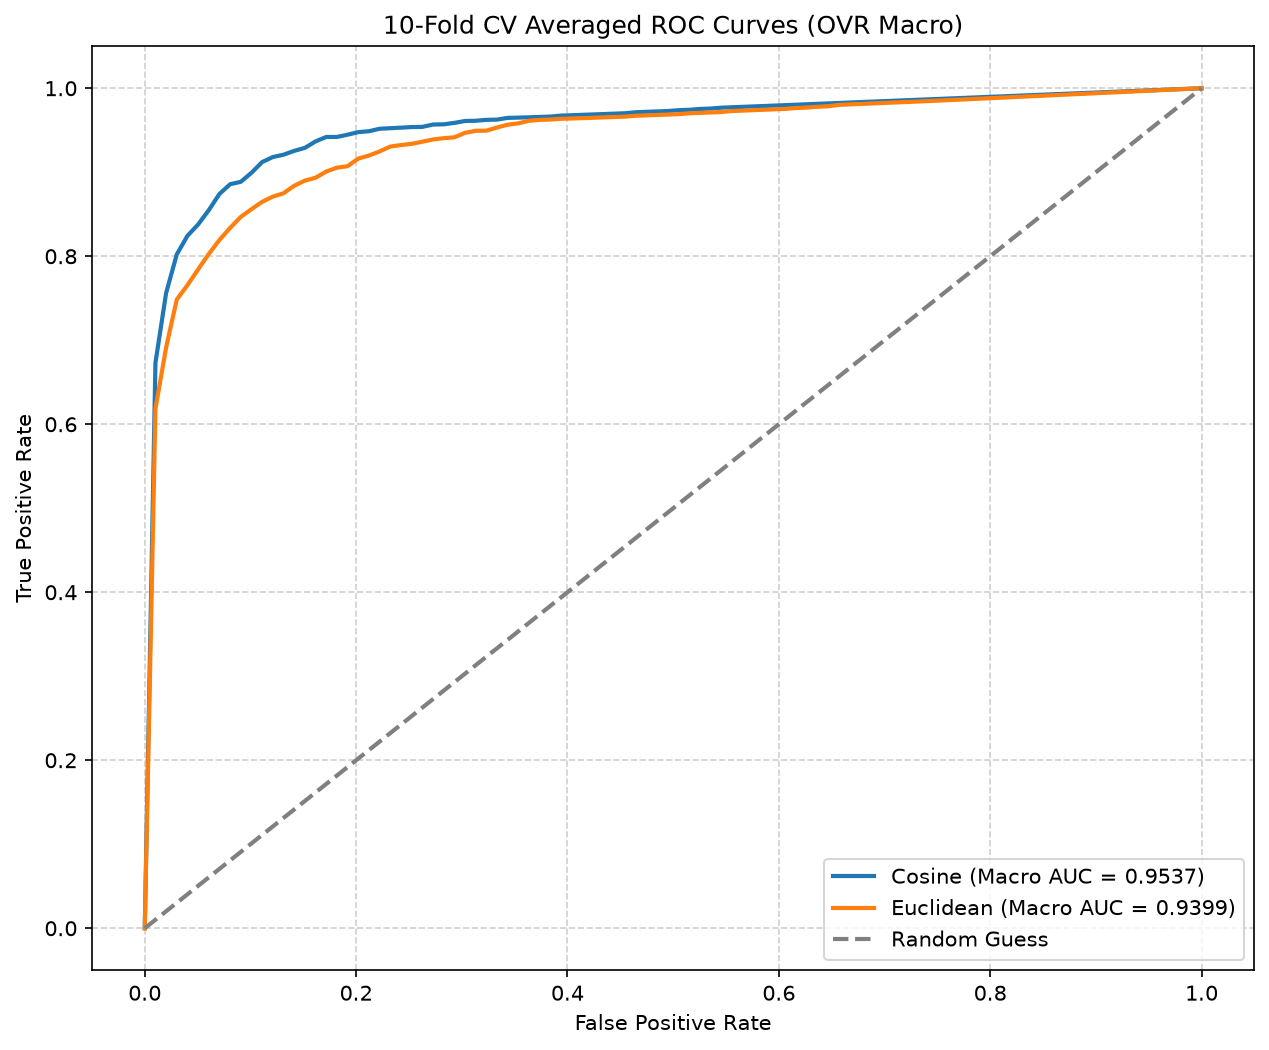
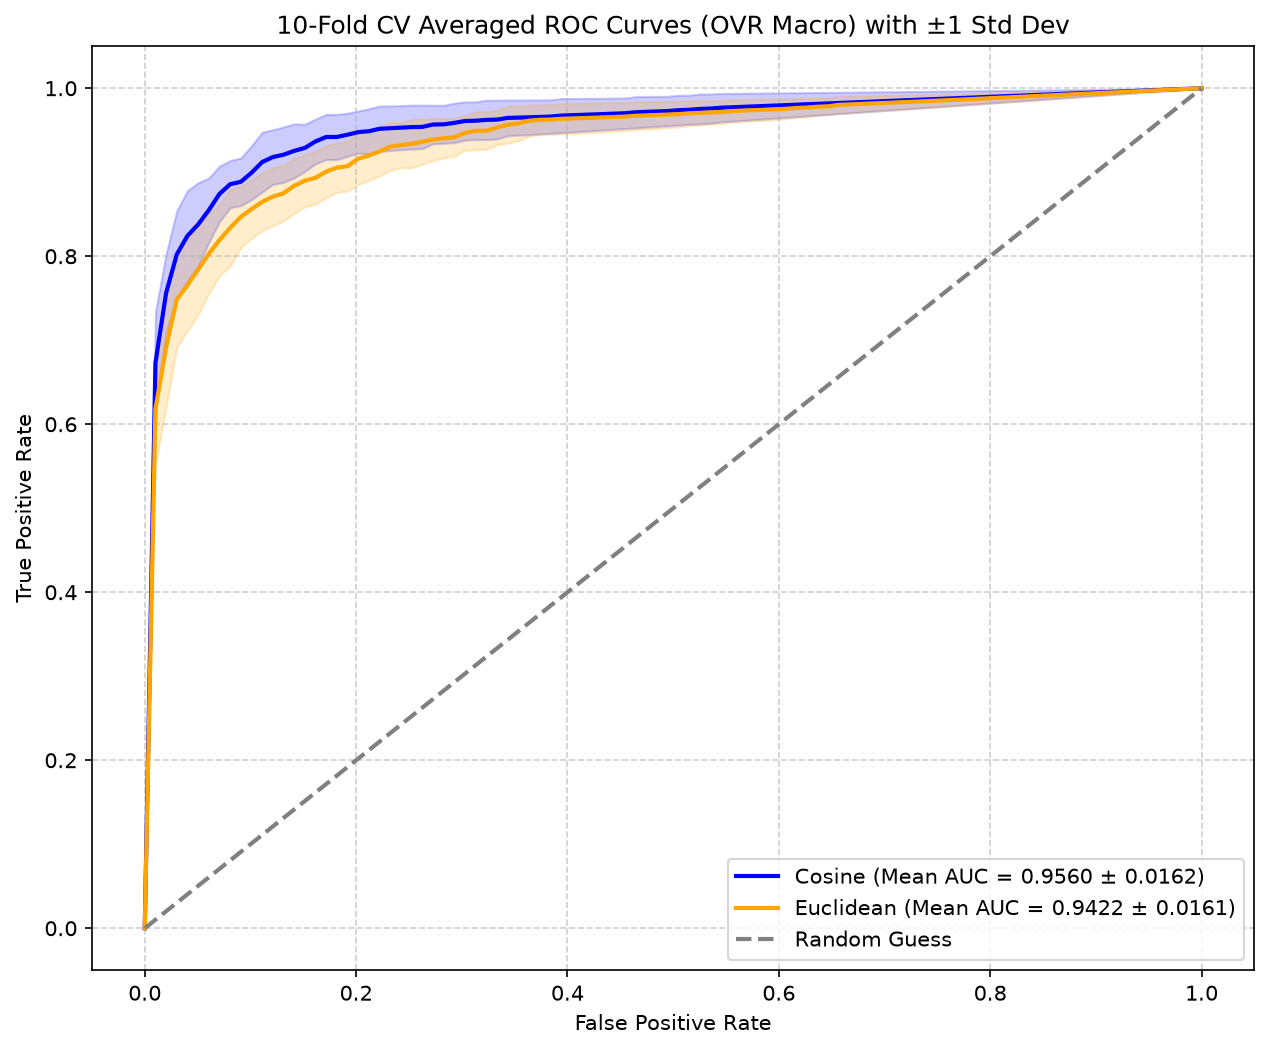
refactor: update F1 metrics and update best models evaluation

diff --git a/src/classification.py b/src/classification.py
@@ -3,6 +3,7 @@ import numpy as np
 import pandas as pd
 from pandas import DataFrame
 import matplotlib.pyplot as plt
+from scipy.stats import wilcoxon
 from sklearn.model_selection import StratifiedGroupKFold
 from sklearn.preprocessing import StandardScaler, Normalizer, LabelEncoder
 from sklearn.neighbors import KNeighborsClassifier
@@ -11,6 +12,7 @@ from src.metrics import (
     calculate_macro_f1_score,
     calculate_top_k_accuracy,
     calculate_binary_roc,
+    calculate_per_class_f1_score
 )
 
 
@@ -133,9 +135,7 @@ def run_knn_pipeline(
                     'Fold F1s': fold_f1
                 })
 
-                print(
-                    f"k={k:02d} | F1: {np.mean(fold_f1):.4f}±{np.std(fold_f1):.4f} | AUC: {np.mean(fold_auc):.4f}±{np.std(fold_auc):.4f}"
-                )
+                print(f"k={k:02d} | F1: {np.mean(fold_f1):.4f}±{np.std(fold_f1, ddof=1):.4f} | AUC: {np.mean(fold_auc):.4f}±{np.std(fold_auc, ddof=1):.4f}")
 
     return pd.DataFrame(results)
 
@@ -172,23 +172,30 @@ def plot_f1_vs_k(results_df: DataFrame, output_dir: str = 'outputs') -> None:
     print(f"[+] F1 vs k plot saved to: {output_path}")
 
 
-def evaluate_best_models_roc(dataframe: DataFrame, best_k_cos: int, best_k_euc: int, output_dir: str = 'outputs') -> None:
-    """Evaluates the best models on the raw data to generate the interpolated ROC curve and per-class metrics."""
+def evaluate_best_models_roc(
+    dataframe: DataFrame, 
+    best_k_cos: int, 
+    best_k_euc: int, 
+    folds: list, # Passing pre-calculated folds
+    output_dir: str = 'outputs'
+) -> None:
+    """Evaluates the best models on raw data to generate interpolated ROC, per-class F1, and statistical tests."""
+    os.makedirs(output_dir, exist_ok=True)
     X = extract_features(dataframe)
     le = LabelEncoder()
     y = le.fit_transform(dataframe['syndrome_id'].values)
-    groups = dataframe['subject_id'].values
-    
-    cv = StratifiedGroupKFold(n_splits=10, shuffle=True, random_state=42)
-    folds = list(cv.split(X, y, groups))
     
     configs = {'Cosine': best_k_cos, 'Euclidean': best_k_euc}
     mean_fpr = np.linspace(0, 1, 100)
     roc_data = {}
     f1_fold_history = {}
     
+    # Global accumulators to simulate predictions over the entire dataset (Out-of-Fold)
+    oof_predictions = {m: {'y_true': [], 'y_pred': []} for m in configs.keys()}
+    
     for metric_name, k in configs.items():
         tprs = []
+        fold_aucs = []
         fold_f1_scores = []
         
         for train_idx, test_idx in folds:
@@ -198,46 +205,88 @@ def evaluate_best_models_roc(dataframe: DataFrame, best_k_cos: int, best_k_euc: 
             knn = KNeighborsClassifier(n_neighbors=k, metric=metric_name.lower(), weights='distance')
             knn.fit(X_train, y_train)
             y_probs = knn.predict_proba(X_test)
+            
             y_pred = knn.classes_[np.argsort(-y_probs, axis=1, kind='mergesort')[:, 0]]
             
             fold_f1_scores.append(calculate_macro_f1_score(y_test, y_pred))
             
+            # Save actual and estimated predictions for global class evaluation
+            oof_predictions[metric_name]['y_true'].extend(y_test)
+            oof_predictions[metric_name]['y_pred'].extend(y_pred)
+            
             # OVR ROC Calculation for the Fold
             fold_tprs = []
+            fold_class_aucs = []
             for idx, cls in enumerate(knn.classes_):
                 y_true_bin = (y_test == cls).astype(int)
                 if np.sum(y_true_bin) > 0:
                     auc_val, fpr_val, tpr_val = calculate_binary_roc(y_true_bin, y_probs[:, idx])
-                    # Interpolation to ensure the same X-axis (FPR) across all folds
                     interp_tpr = np.interp(mean_fpr, fpr_val, tpr_val)
                     interp_tpr[0] = 0.0
                     fold_tprs.append(interp_tpr)
+                    fold_class_aucs.append(auc_val) # Store AUC of the class
                     
-            # Average across classes (Macro) for the current fold
             tprs.append(np.mean(fold_tprs, axis=0))
+            fold_aucs.append(np.mean(fold_class_aucs)) # AUC Macro of this specific fold
         
         f1_fold_history[metric_name] = fold_f1_scores
-        roc_data[metric_name] = np.mean(tprs, axis=0) # Average of the 10 folds
+        roc_data[metric_name] = {
+            'tprs': tprs, 
+            'mean_auc': np.mean(fold_aucs), 
+            'std_auc': np.std(fold_aucs, ddof=1)
+        }
     
-    # 1. Paired Comparison (Paired Win-Rate)
-    wins_cos = sum(1 for c, e in zip(f1_fold_history['Cosine'], f1_fold_history['Euclidean']) if c > e)
-    ties = sum(1 for c, e in zip(f1_fold_history['Cosine'], f1_fold_history['Euclidean']) if c == e)
-    wins_euc = 10 - wins_cos - ties
+    # Wilcoxon Statistical Test (Magnitude and Paired Signs)
+    # https://docs.scipy.org/doc/scipy/reference/generated/scipy.stats.wilcoxon.html
+    diffs = np.array(f1_fold_history['Cosine']) - np.array(f1_fold_history['Euclidean'])
+    stat, p_value = wilcoxon(diffs)
     
-    print(f"\n=== Paired Comparison (Fold-by-Fold on Raw Data) ===")
-    print(f"Cosine wins: {wins_cos}/10 folds")
-    print(f"Euclidean wins: {wins_euc}/10 folds")
-    print(f"Ties: {ties}/10 folds")
+    wins_cos = sum(1 for d in diffs if d > 0)
+    wins_euc = sum(1 for d in diffs if d < 0)
+    ties = len(diffs) - wins_cos - wins_euc
     
-    # 2. Plotting the Averaged ROC Curve
+    print(f"\n=== Paired Comparison (Wilcoxon Signed-Rank Test) ===")
+    print(f"Cosine wins: {wins_cos} | Euclidean wins: {wins_euc} | Ties: {ties}")
+    print(f"Wilcoxon statistic: {stat:.1f}, p-value: {p_value:.4f}")
+    print("* Note: The p-value may be optimistic due to overlapping CV train folds.\n")
+    
+    # F1 Assessment by Class
+    print(f"=== Per-Class F1 Score (Out-of-Fold, Cosine k={best_k_cos}) ===")
+    y_true_all = oof_predictions['Cosine']['y_true']
+    y_pred_all = oof_predictions['Cosine']['y_pred']
+    
+    class_f1s = calculate_per_class_f1_score(np.array(y_true_all), np.array(y_pred_all))
+    
+    # Translate the indexes back to the actual Syndrome IDs
+    for cls_encoded, f1_val in class_f1s.items():
+        original_label = le.inverse_transform([cls_encoded])[0]
+        print(f"Syndrome {original_label}: F1 = {f1_val:.4f}")
+        
+    # Plotting the ROC Curves with Standard Deviation Bands
     plt.figure(figsize=(10, 8))
-    for metric_name, mean_tpr in roc_data.items():
-        mean_tpr[-1] = 1.0 # Ensures convergence at the top right
-        macro_auc = np.trapezoid(mean_tpr, mean_fpr)
-        plt.plot(mean_fpr, mean_tpr, label=f'{metric_name} (Macro AUC = {macro_auc:.4f})', lw=2)
+    colors = {'Cosine': 'blue', 'Euclidean': 'orange'}
+    
+    for metric_name, data in roc_data.items():
+        tprs = np.array(data['tprs'])
+        mean_tpr = np.mean(tprs, axis=0)
+        mean_tpr[-1] = 1.0 
+        std_tpr = np.std(tprs, axis=0, ddof=1)
+        
+        # Prevention against illegal bandwidth limits (TPR cannot be <0 nor >1)
+        tprs_upper = np.minimum(mean_tpr + std_tpr, 1)
+        tprs_lower = np.maximum(mean_tpr - std_tpr, 0)
+        
+        mean_auc = data['mean_auc']
+        std_auc = data['std_auc']
+        
+        plt.plot(
+            mean_fpr, mean_tpr, color=colors[metric_name], 
+            label=f'{metric_name} (Mean AUC = {mean_auc:.4f} ± {std_auc:.4f})', lw=2
+        )
+        plt.fill_between(mean_fpr, tprs_lower, tprs_upper, color=colors[metric_name], alpha=0.2)
         
     plt.plot([0, 1], [0, 1], linestyle='--', lw=2, color='gray', label='Random Guess')
-    plt.title('10-Fold CV Averaged ROC Curves (OVR Macro)')
+    plt.title('10-Fold CV Averaged ROC Curves (OVR Macro) with ±1 Std Dev')
     plt.xlabel('False Positive Rate')
     plt.ylabel('True Positive Rate')
     plt.legend(loc='lower right')
@@ -246,7 +295,7 @@ def evaluate_best_models_roc(dataframe: DataFrame, best_k_cos: int, best_k_euc: 
     output_path = os.path.join(output_dir, 'roc_curves_comparison.png')
     plt.savefig(output_path, dpi=150, bbox_inches='tight')
     plt.close()
-    print(f"[+] ROC curves plot saved to: {output_path}\n")
+    print(f"\n[+] ROC curves plot saved to: {output_path}\n")
 
 
 def save_and_display_best_results(

diff --git a/src/metrics.py b/src/metrics.py
@@ -22,37 +22,35 @@ def calculate_top_k_accuracy(
     return float(np.mean(matches))
 
 
-def calculate_macro_f1_score(y_true: NDArray, y_pred: NDArray) -> float:
+def calculate_per_class_f1_score(y_true: NDArray, y_pred: NDArray) -> dict:
     """
-    Calculates the macro F1 score.
-    The macro F1 score is the unweighted mean of F1 scores for each class.
-    It treats all classes equally, regardless of their support (number of true instances).
-    https://ml-compiled.readthedocs.io/en/latest/metrics.html
-
-    Args:
-        y_true: 1D array containing the true labels.
-        y_pred: 1D array containing the predicted labels.
+    Calculates the F1 score for each individual class.
+    Returns a dictionary mapping the class label to its F1 score.
     """
-    # Uses the union to ensure that classes present in the
-    # expected set but not in y_true are accounted for.
-    classes: NDArray = np.union1d(y_true, y_pred)
-    f1_scores: list[float] = []
+    classes = np.union1d(y_true, y_pred)
+    f1_scores = {}
 
     for label in classes:
-        tp: int = np.sum((y_pred == label) & (y_true == label))
-        fp: int = np.sum((y_pred == label) & (y_true != label))
-        fn: int = np.sum((y_pred != label) & (y_true == label))
+        tp = np.sum((y_pred == label) & (y_true == label))
+        fp = np.sum((y_pred == label) & (y_true != label))
+        fn = np.sum((y_pred != label) & (y_true == label))
 
         precision = tp / (tp + fp) if (tp + fp) > 0 else 0.0
         recall = tp / (tp + fn) if (tp + fn) > 0 else 0.0
 
         if precision + recall == 0:
-            f1 = 0.0
+            f1_scores[label] = 0.0
         else:
-            f1 = 2 * (precision * recall) / (precision + recall)
-        f1_scores.append(f1)
+            f1_scores[label] = 2 * (precision * recall) / (precision + recall)
+    return f1_scores
 
-    return float(np.mean(f1_scores))
+
+def calculate_macro_f1_score(y_true: NDArray, y_pred: NDArray) -> float:
+    """
+    Calculates the macro F1 score (unweighted mean of per-class F1 scores).
+    """
+    f1_scores = calculate_per_class_f1_score(y_true, y_pred)
+    return float(np.mean(list(f1_scores.values())))
 
 
 def calculate_binary_roc(

diff --git a/main.py b/main.py
@@ -2,10 +2,13 @@ import sys
 import argparse
 import pandas as pd
 from pandas import DataFrame
+from sklearn.model_selection import StratifiedGroupKFold
+from sklearn.preprocessing import LabelEncoder
 from src.data_processing import (
     data_loader,
     flatten_data,
-    clean_and_validate_data
+    clean_and_validate_data,
+    extract_features,
 )
 from src.eda import generate_eda_report
 from src.visualization import plot_tsne
@@ -48,7 +51,19 @@ def main():
     results_df = run_knn_pipeline(validated_df, max_k=15, n_splits=10)
     save_and_display_best_results(results_df)
     plot_f1_vs_k(results_df)
-    evaluate_best_models_roc(validated_df, best_k_cos=14, best_k_euc=14)
+
+    X = extract_features(validated_df)
+    y = LabelEncoder().fit_transform(validated_df["syndrome_id"].values)
+    groups = validated_df["subject_id"].values
+    cv = StratifiedGroupKFold(n_splits=10, shuffle=True, random_state=42)
+    static_folds = list(cv.split(X, y, groups))
+
+    evaluate_best_models_roc(
+        validated_df,
+        best_k_cos=14,
+        best_k_euc=14,
+        folds=static_folds,
+    )
 
 
 if __name__ == "__main__":
